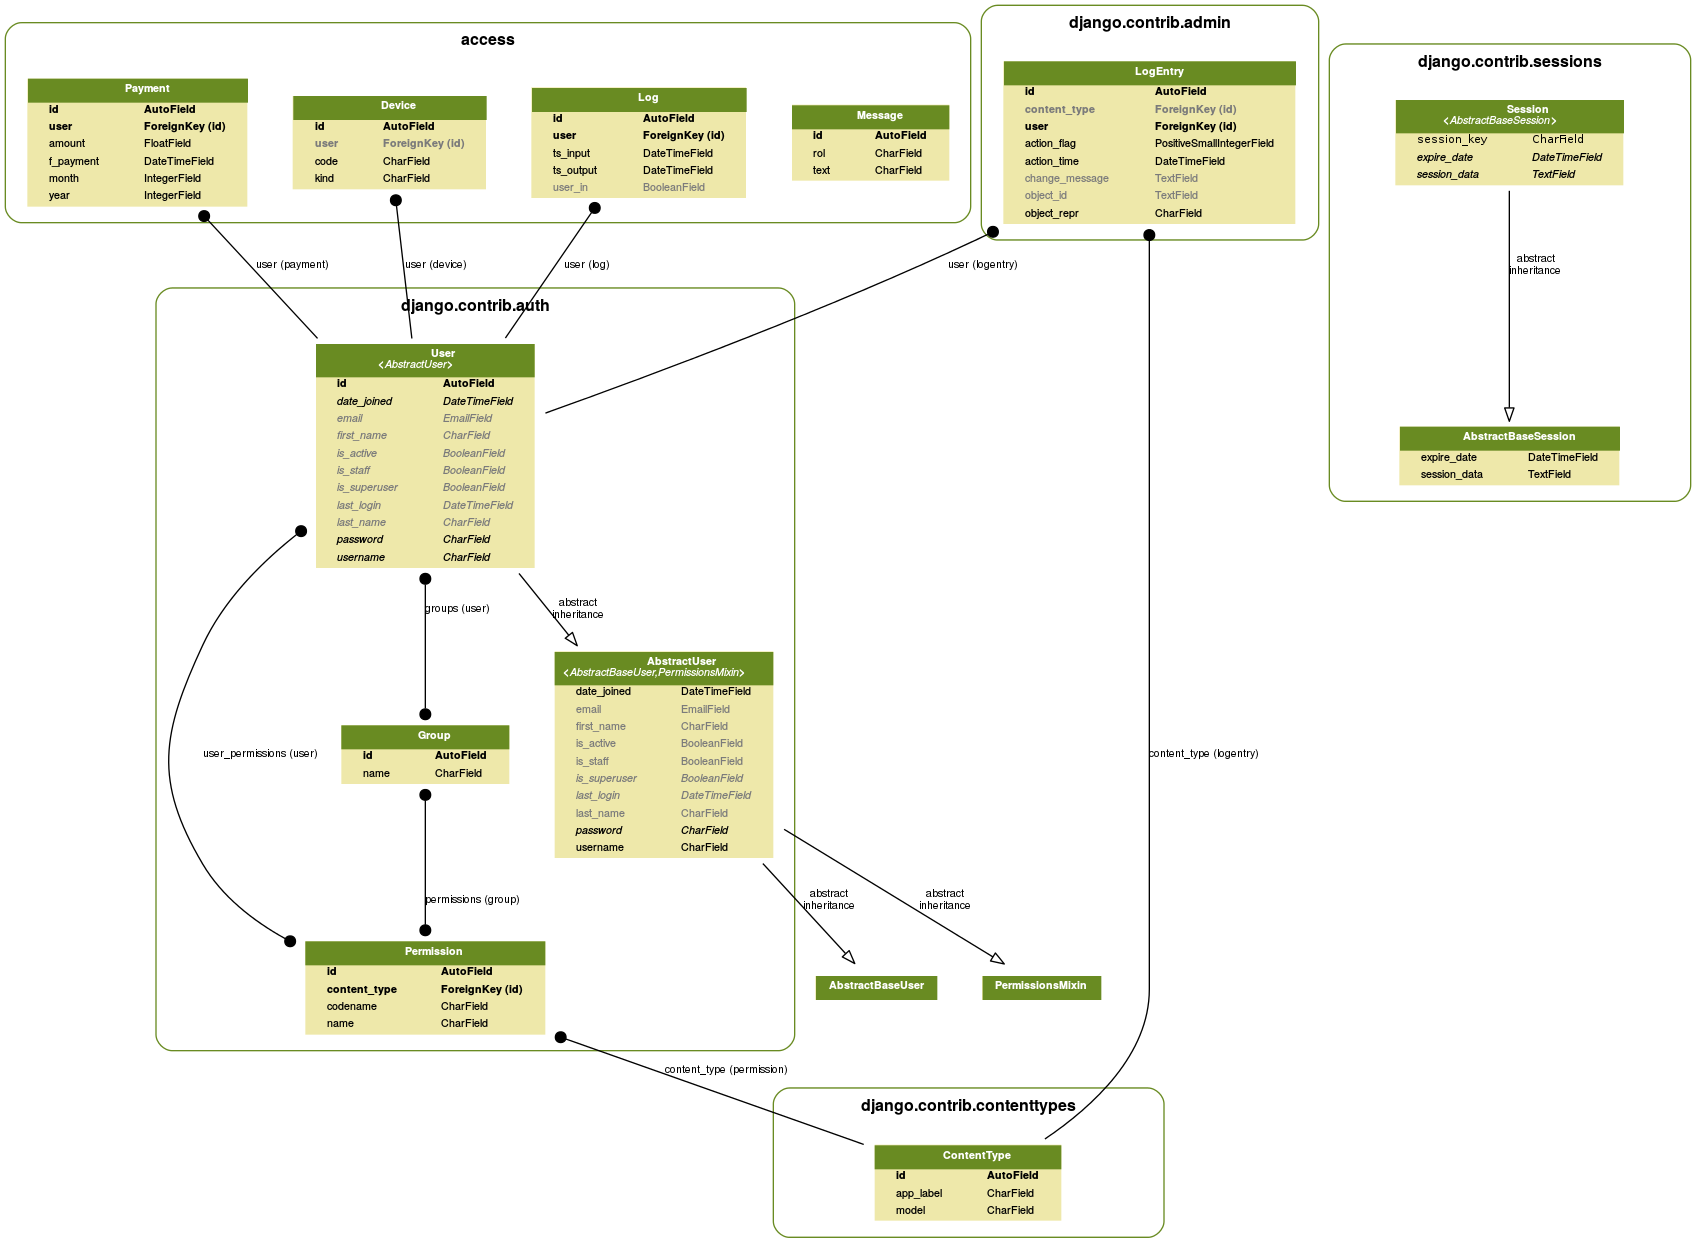
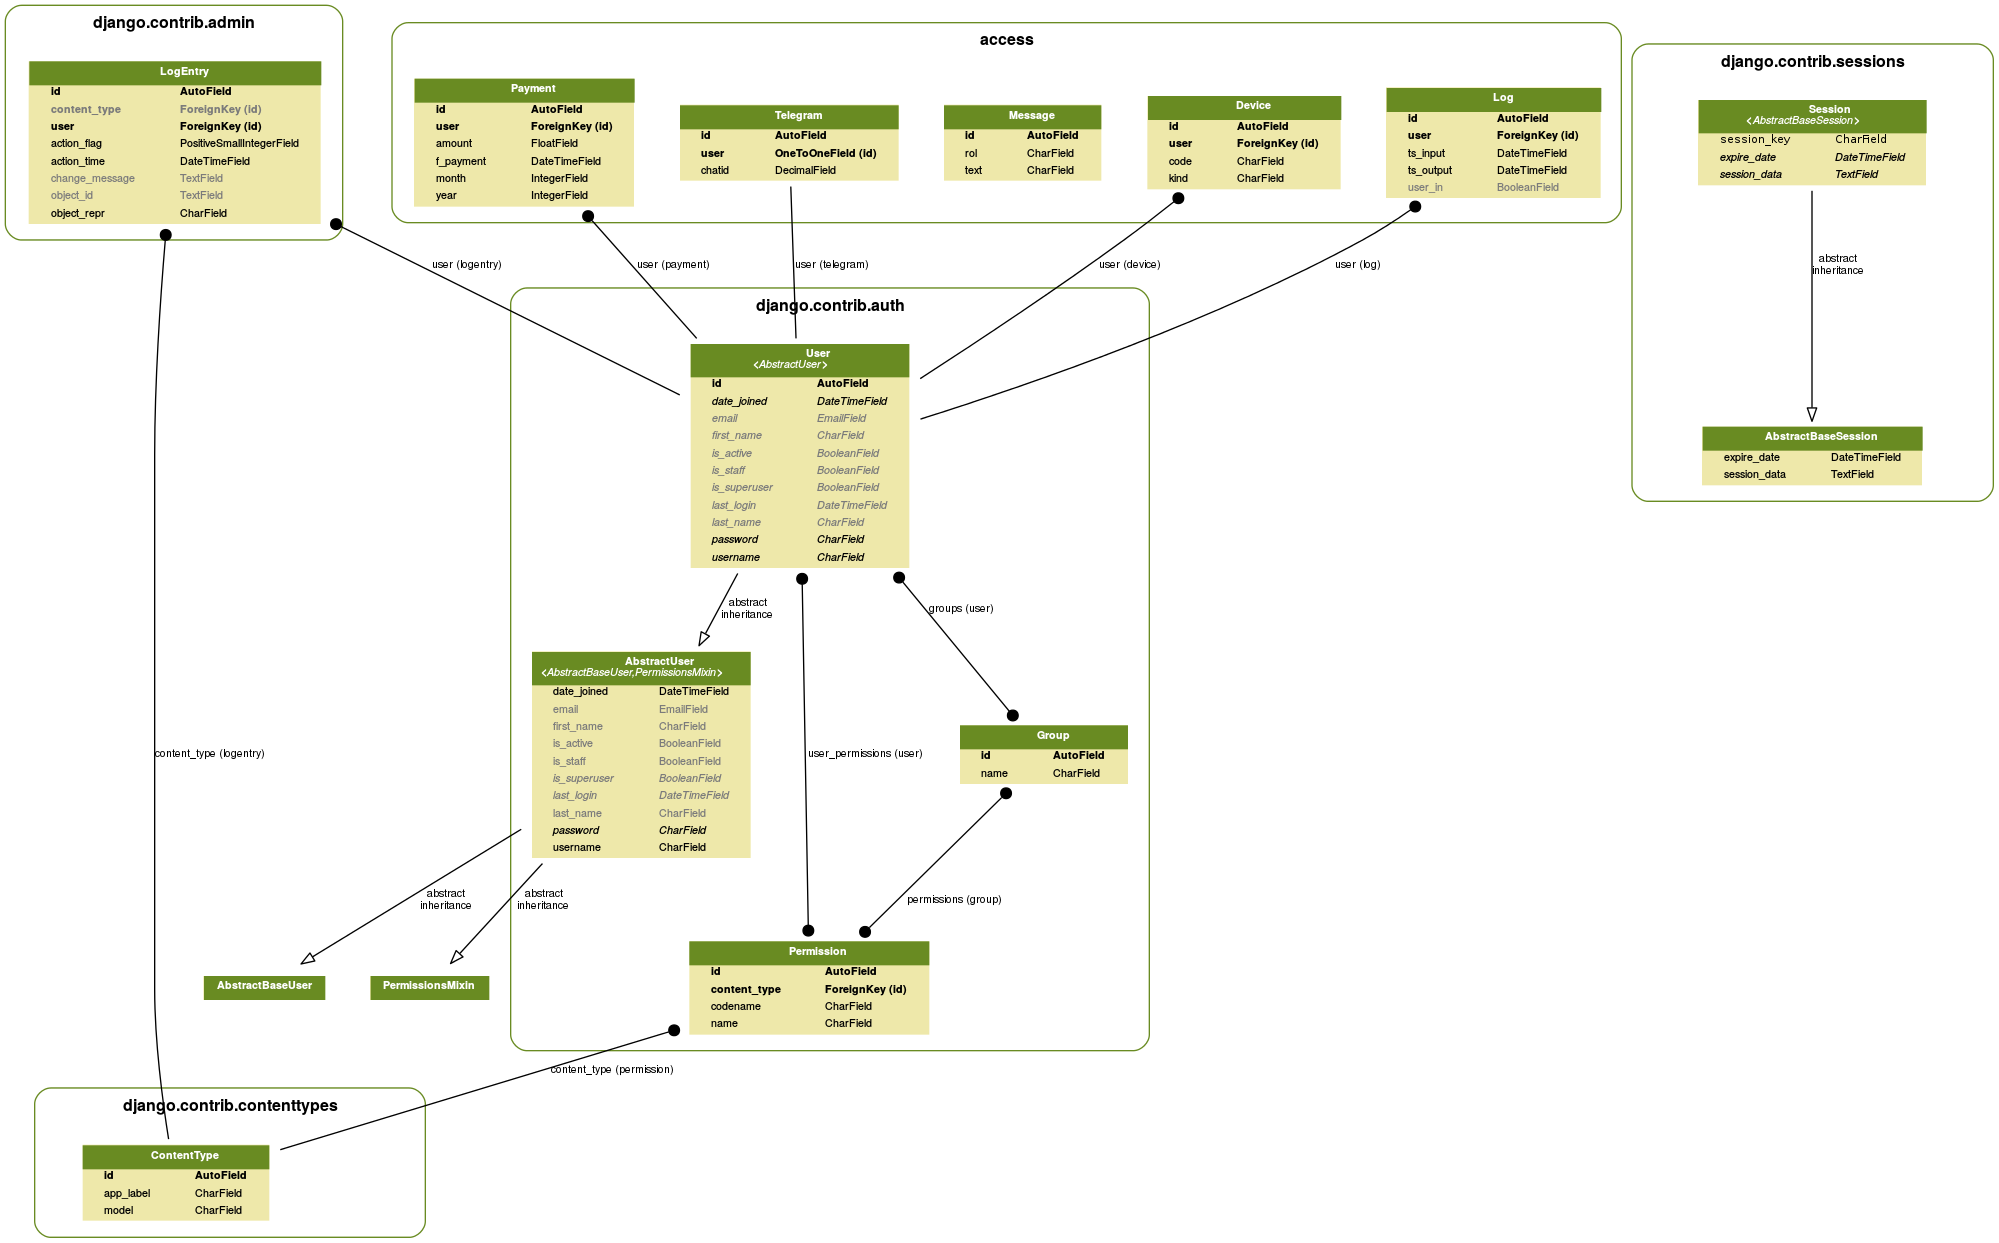
Update README and other resources

diff --git a/telegrambot/telegramBot.py b/telegrambot/telegramBot.py
@@ -44,7 +44,8 @@ def command_start(m):
         knownUsers.append(cid)  # save user id, so you could brodcast messages to all users of this bot later
         userStep[cid] = 0  # save user id and his current "command level", so he can use the "/getImage" command
         bot.send_message(cid, "Hello, stranger, let me scan you...")
-        bot.send_message(cid, "Scanning complete, I know you now")
+        msg = "Scanning complete, I know you now. Chatid: " + str(cid)
+        bot.send_message(cid, msg)
         command_help(m)  # show the new user the help page
     else:
         bot.send_message(cid, "I already know you, no need for me to scan you again!")

diff --git a/README.md b/README.md
@@ -43,16 +43,22 @@ Support bots Telegram: When entering the first person into space in a group aler
 [Wiki](http://wiki.kreitek.org/proyectos:control_acceso)
 [Blog](https://carontepass.wordpress.com/)
 
+**Web Panel:**
 ![Login Page](https://carontepass.files.wordpress.com/2016/02/captura-de-pantalla-2016-02-15-14-02-56.png?w=775)
 ![User Panel](https://carontepass.files.wordpress.com/2016/02/captura-de-pantalla-2016-02-15-14-02-46.png)
-![Database Model](https://carontepass.files.wordpress.com/2016/02/mis_modelos2.png)
+
+**Django DataBase:**
+![Database Model](https://carontepass.files.wordpress.com/2016/03/my_models3.png)
+
+**Integration with Telegram Bot:**
+![Telegram Bot](https://carontepass.files.wordpress.com/2016/02/captura-de-pantalla-2016-02-29-22-52-02.png)
 
 Technology used:
 -------------
 
  - Python
  - Django 1.9
- - Django REST framework
+ - Dango REST framework
  - Bootstrap with AdminLTE theme
  - PyTelegramBotAPI
  (Read more at the web/carontepass/requirements.txt)
